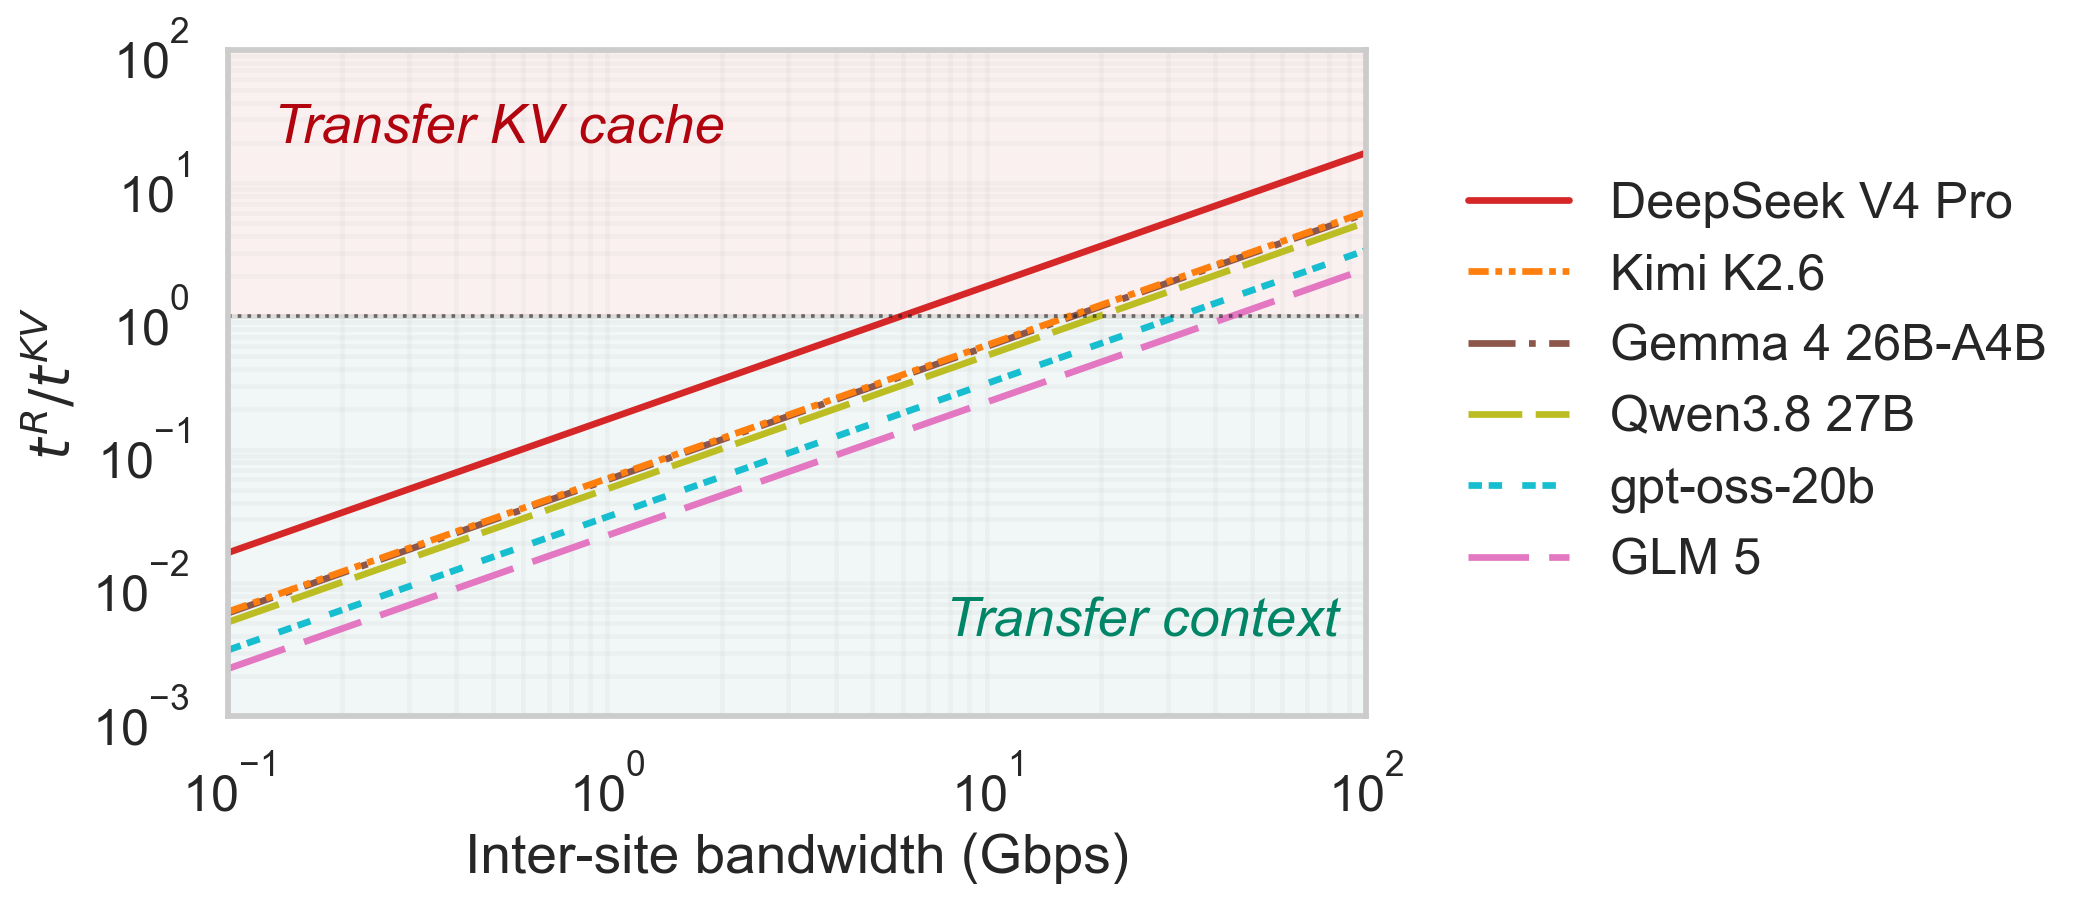
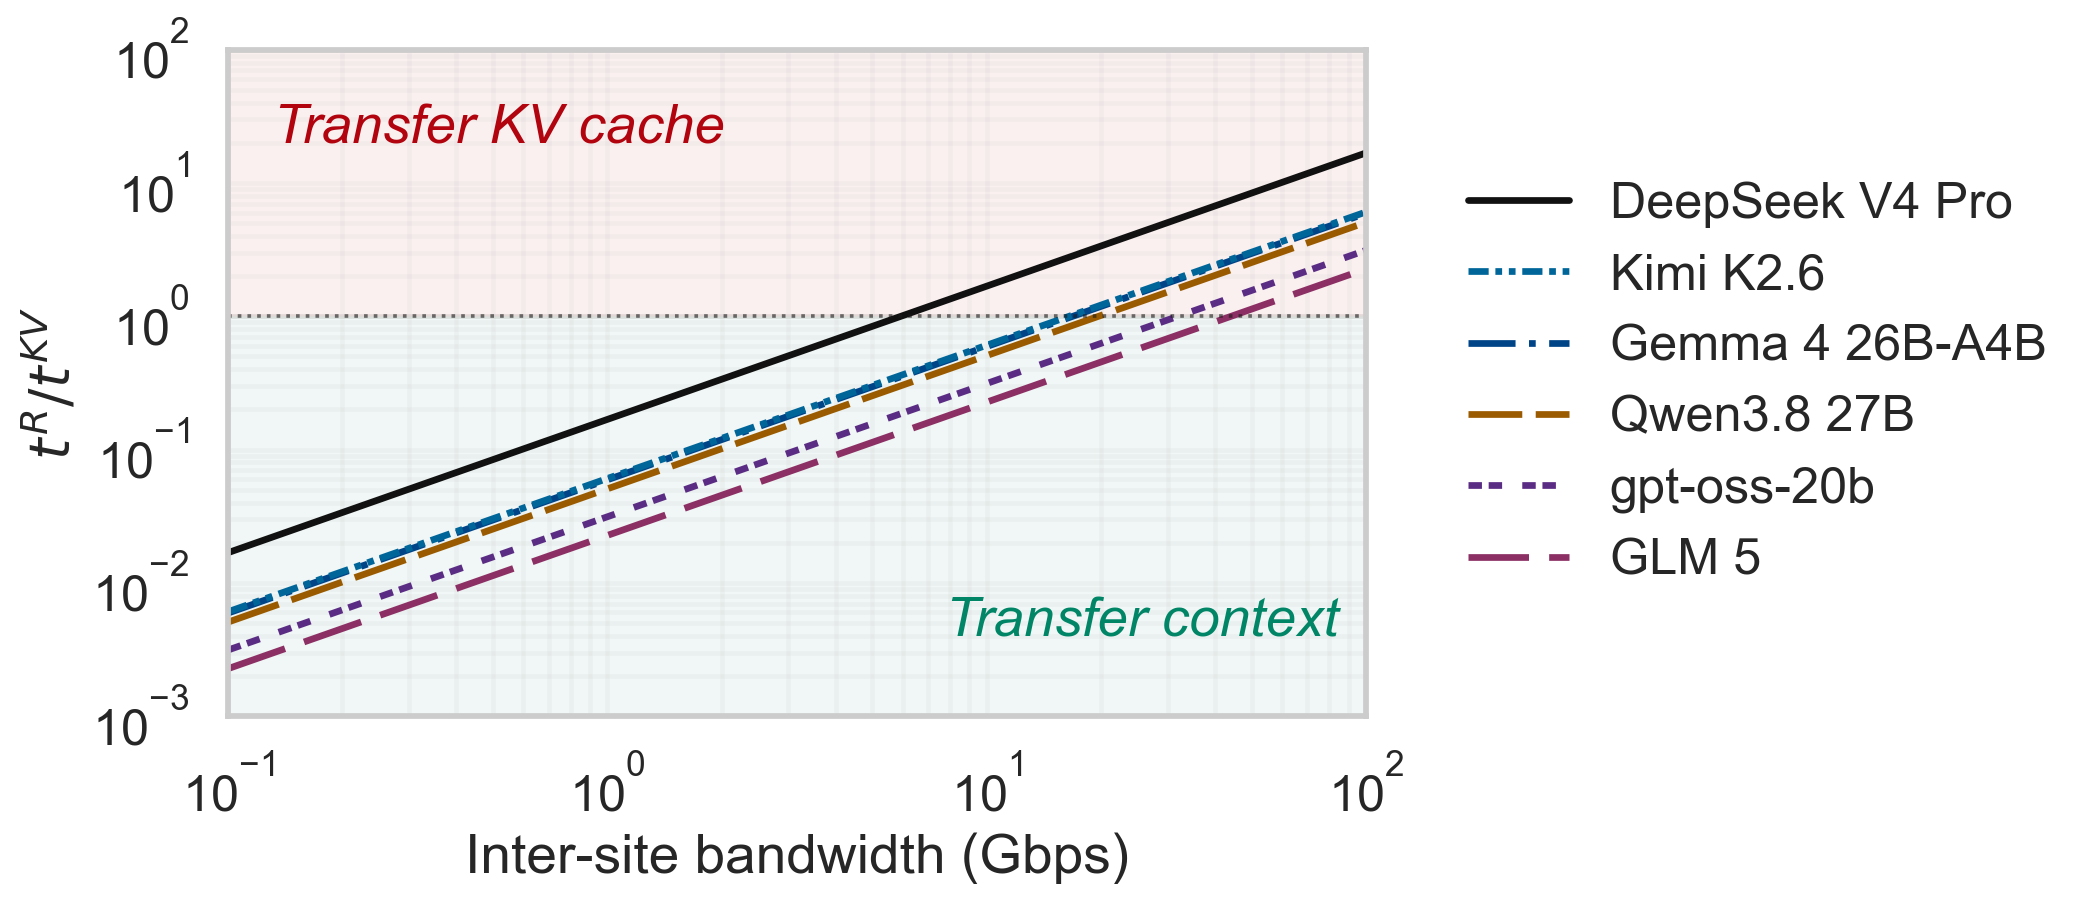
Improve migration graph color contrast

diff --git a/agent-migrate/kv-transfer-early-experiment/migration_ratio.py b/agent-migrate/kv-transfer-early-experiment/migration_ratio.py
@@ -43,6 +43,9 @@ CONTEXT_BANDWIDTHS_GBPS = np.linspace(0.1, 25, 500)
 CONTEXT_TOKENS = np.geomspace(1_000, 10_000_000, 500)
 CONTEXT_RATIO_YLIM = (1e-3, 1e2)
 RATIO_YLIM = (1e-3, 1e2)
+KV_REGION_COLOR = "#B1040E"
+CONTEXT_REGION_COLOR = "#008566"
+REGION_ALPHA = 0.06
 
 # ── Model specs ───────────────────────────────────────────────────────────────
 KVFn = Callable[[int], float]
@@ -147,7 +150,7 @@ MODELS = [
         qk_dim=512,
         v_dim=512,
         kv_bytes=dsv4_kv,
-        color="#d62728",
+        color="#111111",
         ls="-",
     ),
     Model(
@@ -159,7 +162,7 @@ MODELS = [
         qk_dim=256,
         v_dim=256,
         kv_bytes=gemma4_kv,
-        color="#8c564b",
+        color="#004488",
         ls=(0, (7, 2, 1, 2)),
     ),
     Model(
@@ -171,7 +174,7 @@ MODELS = [
         qk_dim=64,
         v_dim=64,
         kv_bytes=gpt_oss_kv,
-        color="#17becf",
+        color="#5B2C83",
         ls=(0, (2, 1, 2, 3)),
     ),
     Model(
@@ -183,7 +186,7 @@ MODELS = [
         qk_dim=256,
         v_dim=256,
         kv_bytes=gqa_kv(16, 4, 256),
-        color="#bcbd22",
+        color="#9A5B00",
         ls=(0, (8, 2)),
     ),
     Model(
@@ -195,7 +198,7 @@ MODELS = [
         qk_dim=192,
         v_dim=128,
         kv_bytes=mla_kv(61, 512, 64),
-        color="#ff7f0e",
+        color="#006699",
         ls=(0, (3, 1, 1, 1, 1, 1)),
     ),
     Model(
@@ -207,7 +210,7 @@ MODELS = [
         qk_dim=256,
         v_dim=256,
         kv_bytes=mla_kv(78, 512, 64),
-        color="#e377c2",
+        color="#8C2F64",
         ls=(0, (9, 3)),
     ),
 ]
@@ -279,12 +282,22 @@ def shade_regions(ax, x, kv_at, ctx_at):
     figure to land in the whitespace the curves leave open.
     """
     lo, hi = ax.get_ylim()
-    ax.fill_between(x, 1.0, hi, alpha=0.06, color="#B1040E", zorder=0)
-    ax.fill_between(x, lo, 1.0, alpha=0.06, color="#008566", zorder=0)
+    ax.fill_between(x, 1.0, hi, alpha=REGION_ALPHA, color=KV_REGION_COLOR, zorder=0)
+    ax.fill_between(
+        x, lo, 1.0, alpha=REGION_ALPHA, color=CONTEXT_REGION_COLOR, zorder=0
+    )
     ax.set_ylim(lo, hi)
     tr = ax.get_yaxis_transform()  # x in axes fraction, y in data
-    ax.text(*kv_at, "Transfer KV cache", color="#B1040E", style="italic", transform=tr)
-    ax.text(*ctx_at, "Transfer context", color="#008566", style="italic", transform=tr)
+    ax.text(
+        *kv_at, "Transfer KV cache", color=KV_REGION_COLOR, style="italic", transform=tr
+    )
+    ax.text(
+        *ctx_at,
+        "Transfer context",
+        color=CONTEXT_REGION_COLOR,
+        style="italic",
+        transform=tr,
+    )
 
 
 def plot_context_ratio(label: str = CONTEXT_MODEL, stem: str = CONTEXT_STEM):

diff --git a/agent-migrate/kv-transfer-early-experiment/test_migration_ratio.py b/agent-migrate/kv-transfer-early-experiment/test_migration_ratio.py
@@ -16,11 +16,13 @@ Plausible wrong implementations:
 - losing the causal 1/2, or applying compression to the window branch
 - reversing bytes/bits or Gbps in transfer time
 - rounding DeepSeek compressed entries down instead of up
+- choosing curve colors that disappear into either shaded decision region
 """
 
 import math
 
 import migration_ratio as mr
+from matplotlib.colors import to_rgb
 
 # Attention groups represented by the cost model; Qwen3.8 omits fixed state.
 EXPECTED_LAYERS = {
@@ -39,6 +41,26 @@ def attn_flops(model, tokens):
 
 def test_catalogue_matches_the_requested_six_models():
     assert [model.label for model in mr.MODELS] == list(EXPECTED_LAYERS)
+
+
+def test_model_colors_contrast_with_both_decision_regions():
+    def luminance(color):
+        rgb = [
+            v / 12.92 if v <= 0.04045 else ((v + 0.055) / 1.055) ** 2.4
+            for v in color
+        ]
+        return 0.2126 * rgb[0] + 0.7152 * rgb[1] + 0.0722 * rgb[2]
+
+    backgrounds = [
+        tuple(mr.REGION_ALPHA * v + 1 - mr.REGION_ALPHA for v in to_rgb(color))
+        for color in (mr.KV_REGION_COLOR, mr.CONTEXT_REGION_COLOR)
+    ]
+    for model in mr.MODELS:
+        for background in backgrounds:
+            light, dark = sorted(
+                (luminance(to_rgb(model.color)), luminance(background)), reverse=True
+            )
+            assert (light + 0.05) / (dark + 0.05) >= 4.5
 
 
 def test_attention_groups_cover_the_configs_kv_layers():
